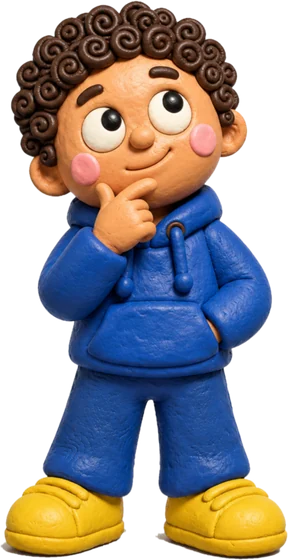
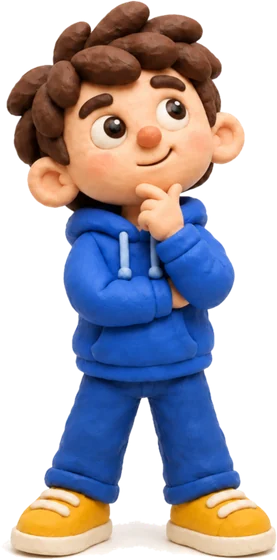
Maskotu avatardaki çocuğa göre yenile, bölüm simgeleri ve kupa ekle
Maskot artık ana sayfadaki kil avatarla aynı karakter.
Bölüm başlıklarında kil simgeler, yüksek sonuçlarda kupa görünür.

Claude-Session: https://claude.ai/code/session_01JLVXB8kHBJanLnkWEfCJxP

diff --git a/js/app.js b/js/app.js
@@ -43,6 +43,8 @@
   };
   /* maskot: sevinc | selam | dusun */
   const ENES = { sevinc: 'assets/kil/enes-sevinc.webp', selam: 'assets/kil/enes-selam.webp', dusun: 'assets/kil/enes-dusun.webp' };   // tam yollar: tek dosya aracı bunları gömer
+  const ALAN = { gorsel: 'assets/kil/alan-gorsel.webp', uzamsal: 'assets/kil/alan-uzamsal.webp', sayisal: 'assets/kil/alan-sayisal.webp', dikkat: 'assets/kil/alan-dikkat.webp', sozel: 'assets/kil/alan-sozel.webp' };
+  const KUPA = '<img class="kupa" src="assets/kil/kupa.webp" alt="">';
   const enes = (poz) => '<img class="enes enes-' + poz + '" src="' + ENES[poz] + '" alt="">';
 
   /* Avatar seçilmemişse kil karakteri gösterilir. */
@@ -335,7 +337,7 @@
       '<span class="hc"><span class="hc-title">Deneme Sınavı</span><span class="hc-text">Süreli ve karışık sorular</span></span>' + I.back + '</button>' +
       '<button type="button" class="hero-card hero-memory" data-act="span-pick">' + I.span +
       '<span class="hc"><span class="hc-title">Sayı Hafızası</span><span class="hc-text">' + spanRecords() + '</span></span>' + I.back + '</button></section>' +
-      B.AREAS.map((a) => '<section class="area" style="--area: var(--a-' + a.id + ')"><h2>' + a.name + '</h2><div class="cat-grid">' +
+      B.AREAS.map((a) => '<section class="area" style="--area: var(--a-' + a.id + ')"><h2><img class="alan-ico" src="' + ALAN[a.id] + '" alt="">' + a.name + '</h2><div class="cat-grid">' +
         B.CATS.filter((c) => c.area === a.id).map(catCard).join('') + '</div></section>').join('') +
       '<p class="foot">Her gün kısa bir çalışma, arada bir uzun çalışmadan daha çok işe yarar.' +
       (app.dataset.surum ? '<span class="surum">Sürüm ' + app.dataset.surum + '</span>' : '') + '</p></div>';
@@ -495,7 +497,7 @@
 
     if (span.phase === 'over') {
       const rec = Store.data.span.best[g.level][g.mode];
-      return '<div class="page result" style="--area: var(--a-hafiza)">' + enes(g.best ? 'sevinc' : 'dusun') +
+      return '<div class="page result" style="--area: var(--a-hafiza)"><div class="result-art">' + enes(g.best ? 'sevinc' : 'dusun') + (g.won ? KUPA : '') + '</div>' +
         '<h1>' + (g.won ? Span.MAX + ' basamağı da bildin!' : g.best ? 'Güzel hafıza!' : 'Bu sefer olmadı') + '</h1>' +
         '<div class="score">' + g.best + '<small> basamak</small></div>' +
         '<p class="result-sub">' + lvl.name + ' · ' + mode.name + ' · ' + g.hits + ' doğru, ' + (g.trials - g.hits) + ' yanlış · ' + (span.record ? 'Yeni rekor!' : rec ? 'Rekorun ' + rec + ' basamak' : 'Henüz rekor yok') + '</p>' +
@@ -553,7 +555,7 @@
     } else {
       sub = EXAMS[ses.exam].name + ' · ' + (ses.fixed ? B.LEVEL_NAMES[ses.fixed] : 'karışık kademe') + ' · ' + r.blank + ' boş · süre ' + fmtTime(r.sec);
     }
-    let html = '<div class="page result">' + enes(p >= 0.7 ? 'sevinc' : p >= 0.5 ? 'selam' : 'dusun') + '<h1>' + title + '</h1>';
+    let html = '<div class="page result"><div class="result-art">' + enes(p >= 0.7 ? 'sevinc' : p >= 0.5 ? 'selam' : 'dusun') + (p >= 0.9 ? KUPA : '') + '</div><h1>' + title + '</h1>';
     if (!exam) html += '<div class="big-stars">' + [0, 1, 2].map((i) => star(i < r.stars)).join('') + '</div>';
     html += '<div class="score">' + r.ok + '<small> / ' + r.total + ' doğru</small></div><p class="result-sub">' + sub + '</p>';
     if (ses.mode !== 'practice') html += '<div class="card"><h2>Konulara göre</h2>' + areaBars(ses.items) + '</div>';

diff --git a/css/style.css b/css/style.css
@@ -216,7 +216,10 @@ svg { display: block; }
 /* maskot */
 .enes { display: block; flex: none; object-fit: contain; filter: drop-shadow(1px 5px 4px #3a274040); }
 .fb > .enes { width: 64px; height: 76px; margin-block: -6px; }
-.result > .enes { width: auto; height: clamp(170px, 30vh, 250px); animation: enes-gel .5s cubic-bezier(.2, 1.4, .4, 1) both; }
+.result-art { display: flex; align-items: flex-end; justify-content: center; gap: 6px; }
+.result-art .enes { width: auto; height: clamp(170px, 30vh, 250px); animation: enes-gel .5s cubic-bezier(.2, 1.4, .4, 1) both; }
+.kupa { width: auto; height: clamp(84px, 14vh, 120px); filter: drop-shadow(1px 5px 4px #3a274040); animation: enes-gel .5s .18s cubic-bezier(.2, 1.4, .4, 1) both; }
+.alan-ico { flex: none; width: auto; height: 40px; filter: drop-shadow(0 2px 2px #3a274033); }
 @keyframes enes-gel { from { transform: translateY(26px) scale(.8); opacity: 0; } }
 .fb > .enes-sevinc { animation: enes-zipla .5s ease-out; }
 @keyframes enes-zipla { 40% { transform: translateY(-9px) rotate(-4deg); } 70% { transform: translateY(0) rotate(3deg); } }
@@ -241,7 +244,7 @@ svg { display: block; }
   display: flex; align-items: center; gap: 10px;
   font: 800 22px/1.1 var(--font-display); margin-bottom: 12px;
 }
-.area h2::before { content: ""; width: 14px; height: 14px; border-radius: 5px; background: var(--area); transform: rotate(12deg); }
+.area h2:not(:has(.alan-ico))::before { content: ""; width: 14px; height: 14px; border-radius: 5px; background: var(--area); transform: rotate(12deg); }
 .cat-grid { display: grid; gap: 12px; grid-template-columns: repeat(2, minmax(0, 1fr)); }
 @media (min-width: 700px) { .cat-grid { grid-template-columns: repeat(4, minmax(0, 1fr)); } }
 .cat {
@@ -560,7 +563,7 @@ td .dot { display: inline-block; width: 10px; height: 10px; margin-right: 8px; b
   .opt { min-height: 104px; }
 }
 @media (prefers-reduced-motion: reduce) {
-  .sheet, .fb, .enes, .opt.no, .big-stars svg.on { animation: none; }
+  .sheet, .fb, .enes, .kupa, .opt.no, .big-stars svg.on { animation: none; }
   .btn, .opt, .cat, .hero-card, .key, .prog-bar { transition: none; }
 }
 

diff --git a/index.html b/index.html
@@ -10,10 +10,10 @@
   <link rel="preconnect" href="https://fonts.googleapis.com">
   <link rel="preconnect" href="https://fonts.gstatic.com" crossorigin>
   <link rel="stylesheet" href="https://fonts.googleapis.com/css2?family=Baloo+2:wght@600;700;800&family=Nunito:wght@600;700;800&display=swap">
-  <link rel="stylesheet" href="css/style.css?v=2cbee375">
+  <link rel="stylesheet" href="css/style.css?v=02b353fe">
 </head>
 <body>
-  <div id="app" data-surum="6a535fd"></div>
+  <div id="app" data-surum="3264c04"></div>
   <script src="js/core.js?v=6c7bc289"></script>
   <script src="js/shapes.js?v=d3785ac6"></script>
   <script src="js/gen-visual.js?v=67c36671"></script>
@@ -29,7 +29,7 @@
   <script src="js/span.js?v=479225a6"></script>
   <script src="js/firebase-config.js?v=8f5fc6d0"></script>
   <script src="js/store.js?v=8d65affe"></script>
-  <script src="js/app.js?v=343aa3b0"></script>
+  <script src="js/app.js?v=b3280f07"></script>
   <script type="module" src="js/auth.js?v=7204c425"></script>
 </body>
 </html>
